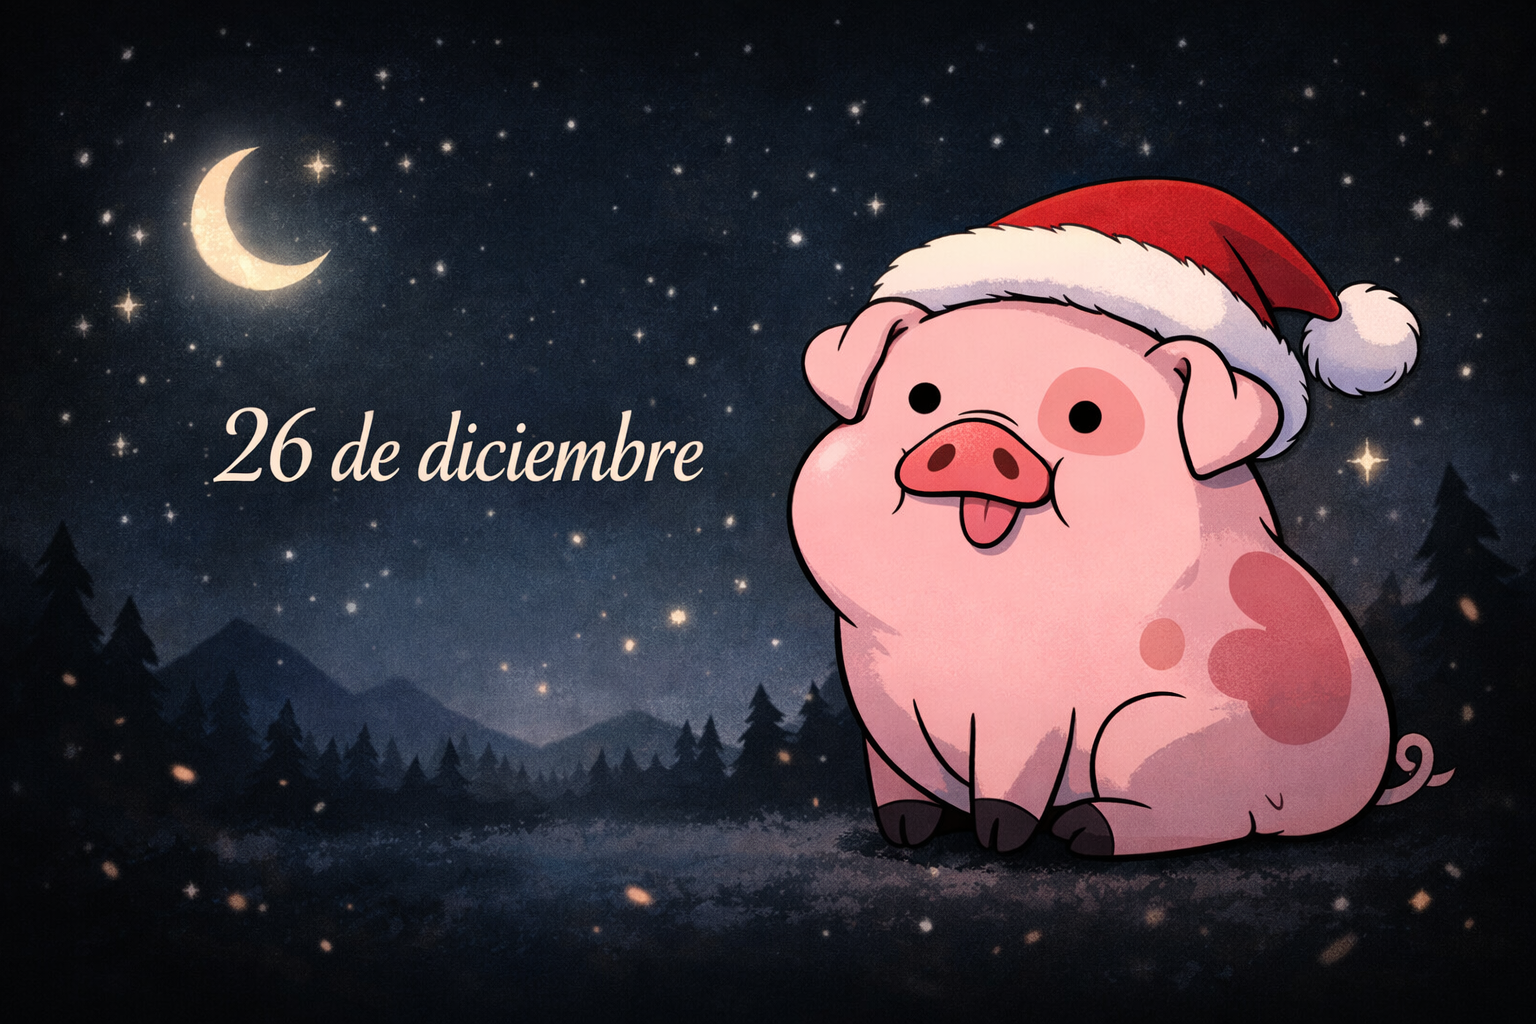
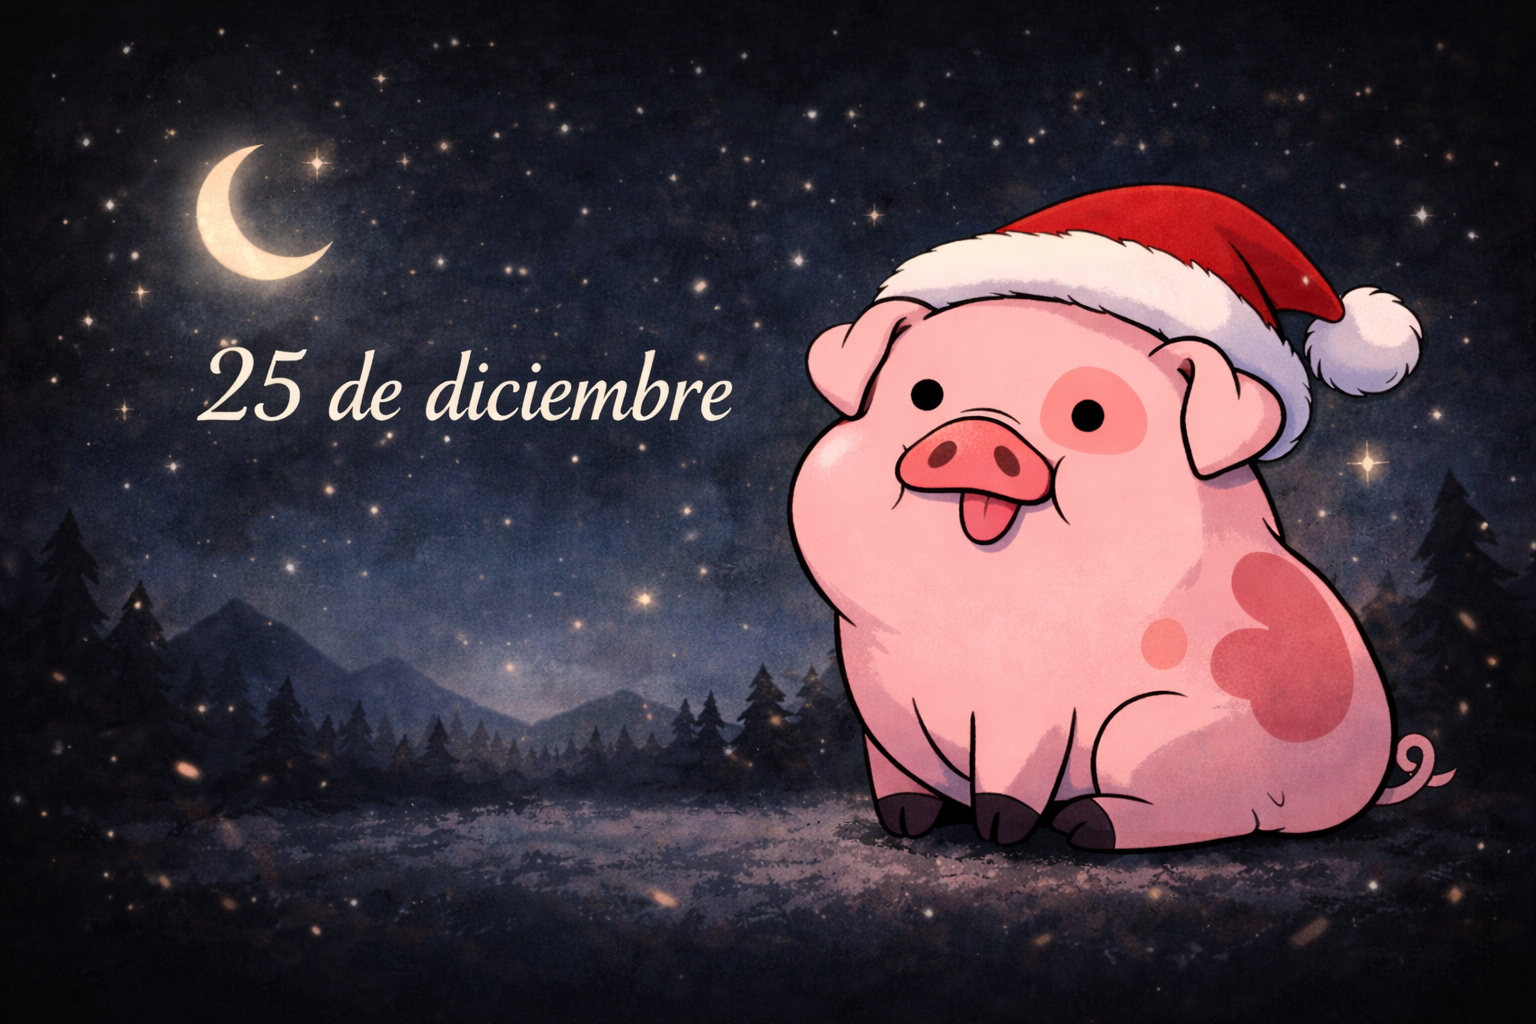
cambiando img

diff --git a/js/script.js b/js/script.js
@@ -2,44 +2,44 @@ let player;
 let playing = false;
 
 function onYouTubeIframeAPIReady() {
-  player = new YT.Player("player", {
-    height: "0",
-    width: "0",
-    videoId: "SlgtjRq5AXs",
-    playerVars: {
-      autoplay: 0,
-      loop: 1,
-      playlist: "SlgtjRq5AXs",
-    },
-  });
+    player = new YT.Player("player", {
+        height: "0",
+        width: "0",
+        videoId: "SlgtjRq5AXs",
+        playerVars: {
+            autoplay: 0,
+            loop: 1,
+            playlist: "SlgtjRq5AXs",
+        },
+    });
 }
 
 function toggleMusic() {
-  if (!player) return;
+    if (!player) return;
 
-  if (playing) {
-    player.pauseVideo();
-  } else {
-    player.playVideo();
-  }
+    if (playing) {
+        player.pauseVideo();
+    } else {
+        player.playVideo();
+    }
 
-  playing = !playing;
+    playing = !playing;
 }
 
 function openLetter() {
-  document.getElementById("letter").classList.toggle("open");
-  createHearts();
+    document.getElementById("letter").classList.toggle("open");
+    createHearts();
 }
 
 function createHearts() {
-  for (let i = 0; i < 20; i++) {
-    const heart = document.createElement("div");
-    heart.className = "heart";
-    heart.innerText = "❤";
-    heart.style.left = Math.random() * 100 + "vw";
-    heart.style.animationDuration = 3 + Math.random() * 3 + "s";
+    for (let i = 0; i < 20; i++) {
+        const heart = document.createElement("div");
+        heart.className = "heart";
+        heart.innerText = "❤";
+        heart.style.left = Math.random() * 100 + "vw";
+        heart.style.animationDuration = 3 + Math.random() * 3 + "s";
 
-    document.body.appendChild(heart);
-    setTimeout(() => heart.remove(), 6000);
-  }
+        document.body.appendChild(heart);
+        setTimeout(() => heart.remove(), 6000);
+    }
 }

diff --git a/index.html b/index.html
@@ -27,7 +27,7 @@
                 y que cambian todo.
             </p>
 
-            <p class="date">26 de diciembre.</p>
+            <p class="date">25 de diciembre.</p>
 
             <p>
                 Gracias por hacer latir de nuevo este corazón

diff --git a/css/style.css b/css/style.css
@@ -20,8 +20,7 @@ body {
     position: relative;
     width: 320px;
     height: 200px;
-
-    background-image: url("../img/pato.png");
+background-image: url("../img/pato.png");
     background-size: cover;
     background-position: center;
 
